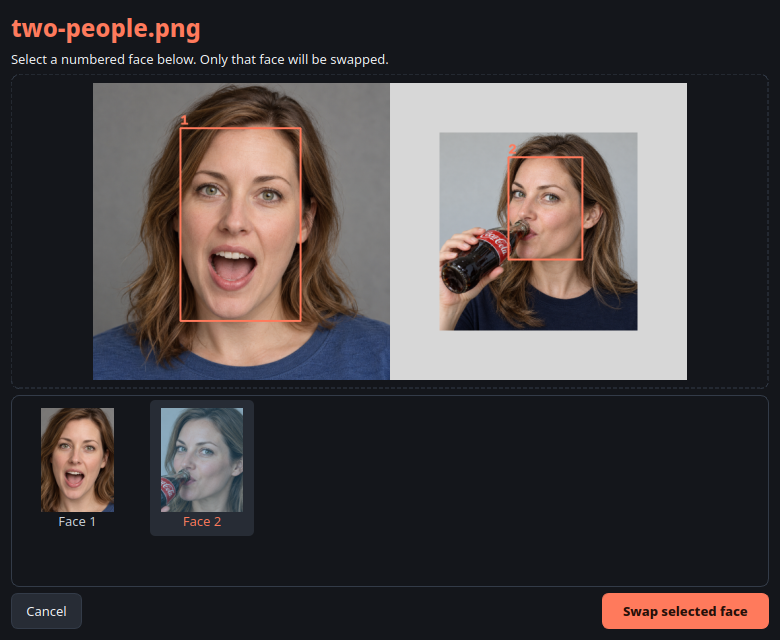
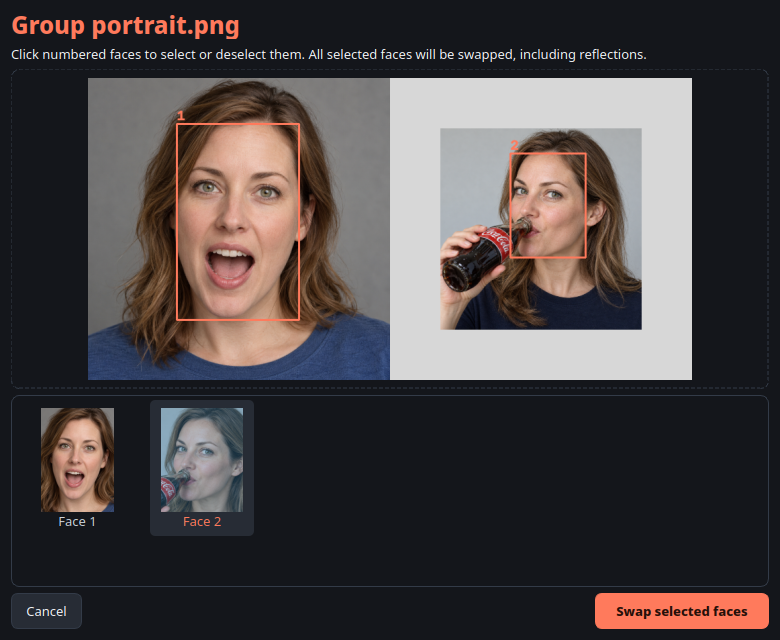
Prepare local media-workflow RPM and refresh product docs [skip ci]

diff --git a/docs/index.html b/docs/index.html
@@ -3,10 +3,10 @@
 <head>
   <meta charset="utf-8">
   <meta name="viewport" content="width=device-width, initial-scale=1">
-  <meta name="description" content="Swapio swaps one face into a folder of still photos locally, with batch processing and no cloud upload.">
+  <meta name="description" content="Swapio swaps one face across photos locally, with short-video and GIF support in local testing. No cloud upload.">
   <meta name="theme-color" content="#151516">
   <meta property="og:title" content="Swapio by Long Weekend Labs">
-  <meta property="og:description" content="Offline batch face swapping for still photos.">
+  <meta property="og:description" content="Offline face swapping for photos, videos and GIFs.">
   <meta property="og:image" content="screenshots/hero.png">
   <title>Swapio · Long Weekend Labs</title>
   <style>
@@ -19,7 +19,8 @@
     <main>
       <section class="hero"><p class="eyebrow">Offline batch face swapping</p><h1>One face in.<br>A whole folder out.</h1><p class="lead">Pick one source portrait and swap it into every destination photo in a folder. Preview the result, choose the faces to change, and keep the rest of each image intact.</p><div class="actions"><a class="button" href="https://github.com/longweekendlabs/swapio/releases/latest">Download the latest release</a><a class="ghost" href="https://github.com/longweekendlabs/swapio">View on GitHub</a></div></section>
       <img class="shot" src="screenshots/hero.png" alt="Swapio showing a synthetic source portrait beside a selected-person face-swap preview">
-      <section class="statement" id="how"><h2>Choose the person. Keep the batch moving.</h2><div class="copy"><p>Feed Swapio individual photos or a folder tree. Choose a numbered face when a photo contains several people; single-face photos continue automatically. Repeat a batch to skip unchanged photos already saved.</p><p>If identity swapping runs out of GPU memory, the same selected face is retried on CPU. Failed photos are reported separately from saved results, with the actual errors available to inspect.</p><div class="metric"><strong>4</strong><span>quality modes, from quick drafts<br>to face restoration</span></div></div></section>
+      <section class="statement" id="how"><h2>Choose the person. Keep the batch moving.</h2><div class="copy"><p>Feed Swapio individual photos or a folder tree. Choose numbered faces when a photo contains several people; single-face photos continue automatically. The local test build supports selecting several faces, including mirror reflections. Repeat a batch to skip unchanged photos already saved.</p><p>If identity swapping runs out of GPU memory, the same selected face is retried on CPU. Failed photos are reported separately from saved results, with the actual errors available to inspect.</p><div class="metric"><strong>4</strong><span>quality modes, from quick drafts<br>to face restoration</span></div></div></section>
+      <section class="statement"><h2>Preview a clip before rendering.</h2><div class="copy"><p>Short videos and GIFs share the photo queue in the local test build. Enable Include videos / GIFs to use Careful quality, choose one person per clip, and generate a two-second preview. Each clip can keep its own optional start and end; leave them unchanged for the full clip.</p><p>MP4, MOV, MKV, WebM, AVI and M4V inputs export MP4 with audio. GIFs stay GIF animations with their timing, loop and transparency. Videos use your computer's FFmpeg and ffprobe.</p><p>Video/GIF support and multiple-face photo selection are awaiting local testing approval. The public download has not been updated with these features yet.</p></div></section>
       <section class="feature"><div class="feature-grid"><div><p class="eyebrow">Visible progress</p><h2>See the queue move.</h2><p>Track the current file, completed results, and anything that needs attention. Original photos are never modified.</p></div><img class="shot" src="screenshots/batch-run.png" alt="Swapio showing a completed synthetic portrait batch with its saved count and output path"></div></section>
       <aside class="privacy"><strong>Your photos stay on your machine.</strong><p>After the one-time model download, Swapio does not use the network. Installed models stay in your user data folder; the app runs independently of its source code. Linux packages are available for x86_64 and arm64.</p></aside>
     </main>

diff --git a/README.md b/README.md
@@ -58,11 +58,11 @@ Select a video or GIF to adjust its own optional start and end directly below th
 
 Tracking checks the selected person's original face identity on every frame. Uncertain matches stay unchanged and are counted in the result. The face model and sampling choice stay fixed within each continuous scene to reduce flicker; blinking, speech, occlusion and cuts still need visual review.
 
-Videos export MP4 with the original audio content and displayed orientation. Variable-frame-rate inputs are converted to their average frame rate. Media runs sequentially, photo and animation model sets unload before switching between them and after the job, and cancelled or failed renders remove temporary movies. Only verified outputs count as saved.
+WebM works through Add media and folder import alongside MP4, MOV, MKV, AVI and M4V. Videos export MP4 with the original audio content and displayed orientation. Variable-frame-rate inputs are converted to their average frame rate. Media runs sequentially, photo and animation model sets unload before switching between them and after the job, and cancelled or failed renders remove temporary movies. Only verified outputs count as saved.
 
 GIF input stays GIF output, keeping the frame delays, loop count, dimensions and transparency. Zero or missing frame delays use 100 milliseconds. Each frame uses GIF's limited colour palette; colours may change during export. Frames are processed one at a time, without keeping the whole animation in memory. GIF processing uses the existing image libraries and needs no FFmpeg.
 
-Video requires the computer's FFmpeg and ffprobe, with H.264 encoding available. Swapio reports missing tools and does not download another media runtime. HDR inputs need an SDR copy for this first video version. This feature is available for local testing and has not been released in the downloadable packages yet.
+Video requires the computer's FFmpeg and ffprobe, with H.264 encoding available. Swapio reports missing tools and does not download another media runtime. HDR inputs need an SDR copy for this first video version. Video/GIF support and multiple-face photo selection are available for local testing; the public download has not been updated with these features yet.
 
 ## Download
 

diff --git a/CHANGELOG.md b/CHANGELOG.md
@@ -2,7 +2,9 @@
 
 ## [Unreleased]
 
-## [0.6.3] - 2026-10-31
+## [0.6.3] - 2026-11-01
+
+Local test package; a public release is pending approval.
 
 ### Fixed
 
@@ -15,6 +17,10 @@
 
 - Select multiple numbered faces in the photo picker with ordinary clicks, including reflections. Preview/export/history use the chosen subset, and unselected faces stay untouched. Videos/GIFs continue to follow one selected face, with that limitation explained in their notice and picker.
 - Source-portrait guidance explaining useful framing, lighting and expression without introducing an arbitrary minimum pixel size.
+
+### Changed
+
+- Package and desktop descriptions now cover photos, videos and GIFs. WebM input uses the same video workflow and exports MP4 with audio; it does not need a separate model or runtime.
 
 ## [0.6.2] - 2026-10-31
 
